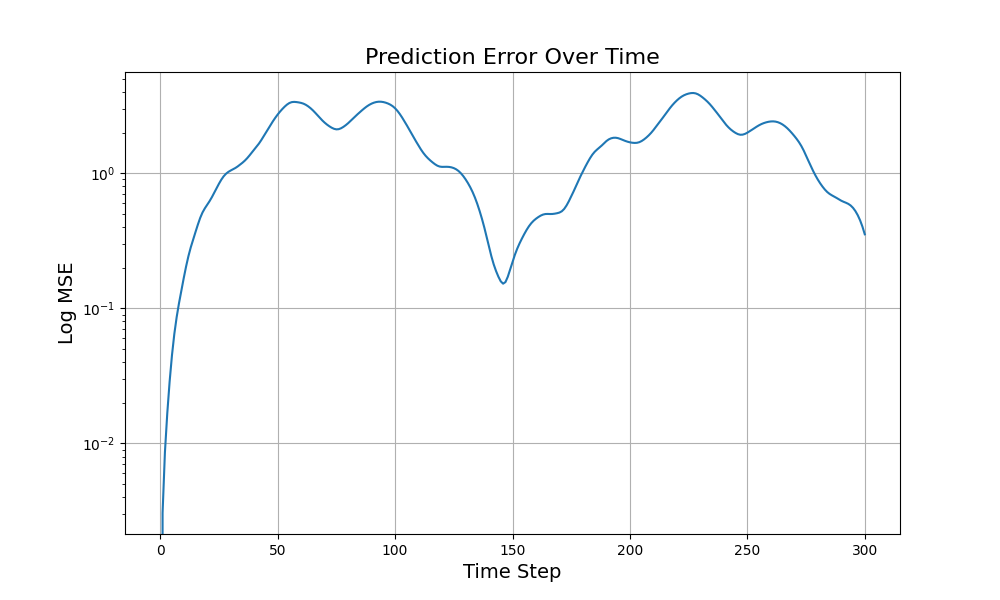
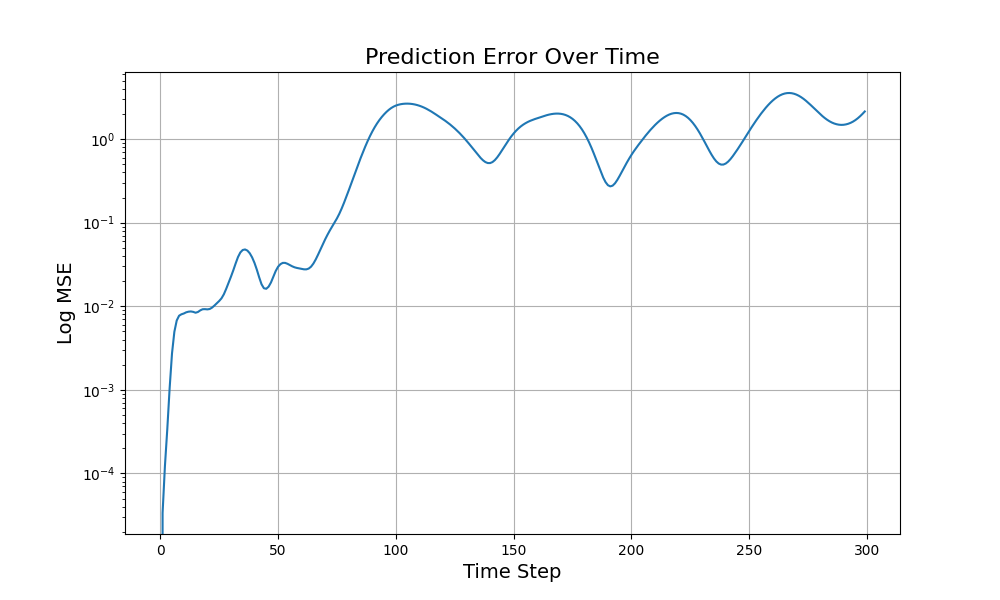
fixed

diff --git a/code/Q2.py b/code/Q2.py
@@ -30,13 +30,25 @@ class NICECouplingLayer(nn.Module):
         return torch.cat([x1, x2], dim=1)
 
 class ExtendedSympNet(nn.Module):
-    def __init__(self, latent_dim, active_dim=4, hidden_dim=256):
+    def __init__(self, latent_dim, active_dim=4, hidden_dim=64):
         super().__init__()
         self.active_dim = active_dim
         self.latent_dim = latent_dim
 
         self.H_net = nn.Sequential(
             nn.Linear(latent_dim, hidden_dim),
+            nn.Tanh(),
+            nn.Linear(hidden_dim, hidden_dim),
+            nn.Tanh(),
+            nn.Linear(hidden_dim, hidden_dim),
+            nn.Tanh(),
+            nn.Linear(hidden_dim, hidden_dim),
+            nn.Tanh(),
+            nn.Linear(hidden_dim, hidden_dim),
+            nn.Tanh(),
+            nn.Linear(hidden_dim, hidden_dim),
+            nn.Tanh(),
+            nn.Linear(hidden_dim, hidden_dim),
             nn.Tanh(),
             nn.Linear(hidden_dim, hidden_dim),
             nn.Tanh(),
@@ -114,16 +126,15 @@ class PNN(nn.Module):
         return torch.stack(trajectory).squeeze(1)
 
 
-def train_pnn(model, X_train, y_train, epochs=100, lr=0.001):
-    optimizer = torch.optim.Adam(model.parameters(), lr=lr)
-
+def train_pnn(model, X_train, y_train,test=None, epochs=100, lr=0.001):
+    optimizer = torch.optim.Adam(model.parameters(), lr=lr, weight_decay=1e-5)
     for epoch in range(epochs):
         optimizer.zero_grad()
-        perm = torch.randperm(X_train.size(0))
-        X_train = X_train[perm]
-        y_train = y_train[perm]
-        X_train = X_train[:64]
-        y_train = y_train[:64]
+        #perm = torch.randperm(X_train.size(0))
+        #X_train = X_train[perm]
+        #y_train = y_train[perm]
+        #X_train = X_train[:64]
+        #y_train = y_train[:64]
 
         pred_y = model.forward(X_train)
 
@@ -139,7 +150,6 @@ def train_pnn(model, X_train, y_train, epochs=100, lr=0.001):
         # Combine them
         mse_loss = loss_p + loss_q
 
-
         mse_loss.backward()
         torch.nn.utils.clip_grad_norm_(model.parameters(), 1.0)
 
@@ -150,6 +160,8 @@ def train_pnn(model, X_train, y_train, epochs=100, lr=0.001):
         # Optional symplecticity enforcement
         if epoch % 100 == 0:
             print(f"Epoch {epoch}, Loss: {mse_loss:.12f}")
+            if test != None:
+                evaluate_and_plot(model,test)
 
     return model
 
@@ -168,27 +180,27 @@ def evaluate_and_plot(model, X_test, steps=300):
     predicted_trajectory = model.predict(initial_state, steps)
     
     # Plot position components (assumed to be last two dimensions)
-    plt.figure(figsize=(12, 8))
+    #plt.figure(figsize=(12, 8))
     
     # Ground truth (blue)
-    plt.plot(ground_truth[:, 2].cpu().numpy(), ground_truth[:, 3].cpu().numpy(), 
-             'b-', label='Ground Truth', linewidth=2)
+    #plt.plot(ground_truth[:, 2].cpu().numpy(), ground_truth[:, 3].cpu().numpy(), 
+    #         'b-', label='Ground Truth', linewidth=2)
     
     # Prediction (red)
-    plt.plot(predicted_trajectory[:, 2].cpu().detach().numpy(), predicted_trajectory[:, 3].cpu().detach().numpy(), 
-             'r--', label='PNN Prediction', linewidth=2)
+    #plt.plot(predicted_trajectory[:, 2].cpu().detach().numpy(), predicted_trajectory[:, 3].cpu().detach().numpy(), 
+    #         'r--', label='PNN Prediction', linewidth=2)
     
     # Highlight start point
-    plt.scatter(ground_truth[0, 2].cpu().numpy(), ground_truth[0, 3].cpu().numpy(), 
-               c='green', s=100, label='Start Point')
+    #plt.scatter(ground_truth[0, 2].cpu().numpy(), ground_truth[0, 3].cpu().numpy(), 
+    #           c='green', s=100, label='Start Point')
     
-    plt.xlabel('Position x1', fontsize=14)
-    plt.ylabel('Position x2', fontsize=14)
-    plt.title('Charged Particle Trajectory Prediction', fontsize=16)
-    plt.legend(fontsize=12)
-    plt.grid(True)
-    plt.savefig('hello.png')
-    plt.show()
+    #plt.xlabel('Position x1', fontsize=14)
+    #plt.ylabel('Position x2', fontsize=14)
+    #plt.title('Charged Particle Trajectory Prediction', fontsize=16)
+    #plt.legend(fontsize=12)
+    #plt.grid(True)
+    #plt.savefig('hello.png')
+    #plt.show()
     
     # Calculate and plot MSE over time
     mse_over_time = []
@@ -196,17 +208,19 @@ def evaluate_and_plot(model, X_test, steps=300):
         mse = F.mse_loss(predicted_trajectory[t], ground_truth[t]).item()
         mse_over_time.append(mse)
     
-    plt.figure(figsize=(10, 6))
-    plt.semilogy(mse_over_time)
-    plt.xlabel('Time Step', fontsize=14)
-    plt.ylabel('Log MSE', fontsize=14)
-    plt.title('Prediction Error Over Time', fontsize=16)
-    plt.grid(True)
-    plt.savefig('prediction_error.png')
+    #plt.figure(figsize=(10, 6))
+    #plt.semilogy(mse_over_time)
+    #plt.xlabel('Time Step', fontsize=14)
+    #plt.ylabel('Log MSE', fontsize=14)
+    #plt.title('Prediction Error Over Time', fontsize=16)
+    #plt.grid(True)
+    #plt.savefig('prediction_error.png')
     
     # Calculate average MSE
     avg_mse = sum(mse_over_time) / len(mse_over_time)
     print(f"Average MSE over {len(mse_over_time)} time steps: {avg_mse:.6f}")
+
+    model.train()
     
     return avg_mse, predicted_trajectory
 
@@ -246,7 +260,7 @@ if __name__ == "__main__":
     
     # Train the model
     print("Starting training...")
-    pnn = train_pnn(pnn, X_train, y_train, epochs=100000, lr=0.0005)
+    pnn = train_pnn(pnn, X_train, y_train,test = X_test, epochs=100000, lr=0.000005)
     print("Training complete!")
     
     # Evaluate and visualize results

diff --git a/code/Q2T.py b/code/Q2T.py
@@ -125,10 +125,7 @@ def train_pnn(model, X_train, y_train, epochs=1000, lr=0.001):
                 pred = model(batch_X)
                 loss = F.mse_loss(pred, batch_y)
                 
-                # Physics regularization
-                S_norm = torch.norm(model.sympNet.S)
-                reg_loss = 1e-4 * S_norm
-                total_loss = loss + reg_loss
+                total_loss = loss
             
             total_loss.backward()
             torch.nn.utils.clip_grad_norm_(model.parameters(), 1.0)
@@ -179,7 +176,7 @@ def evaluate_and_plot(model, X_test, steps=300):
     
     # Energy conservation
     true_energy = (true_traj[:, :2].norm(dim=1) - 1/(true_traj[:, 2:].norm(dim=1)+1e-8)).cpu()
-    pred_energy = (pred_traj[:, 0, :2].norm(dim=1) - 1/(pred_traj[:, 0, 2:].norm(dim=1)+1e-8).cpu()
+    pred_energy = (pred_traj[:, 0, :2].norm(dim=1) - 1/(pred_traj[:, 0, 2:].norm(dim=1)+1e-8)).cpu()
     axs[1,0].plot(true_energy, 'b-', label='True')
     axs[1,0].plot(pred_energy, 'r--', label='Pred')
     axs[1,0].set_title('System Energy')
@@ -201,16 +198,11 @@ if __name__ == "__main__":
     X_train = torch.tensor(data[:-1], dtype=torch.float32)
     y_train = torch.tensor(data[1:], dtype=torch.float32)
     
-    # Normalize data
-    mean, std = X_train.mean(0), X_train.std(0)
-    X_train = (X_train - mean) / (std + 1e-8)
-    y_train = (y_train - mean) / (std + 1e-8)
-    
     model = EnhancedPNN(hidden_dim=256).to(device)
-    model = train_pnn(model, X_train.to(device), y_train.to(device), epochs=2000, lr=3e-4)
+    model = train_pnn(model, X_train.to(device), y_train.to(device), epochs=10000, lr=0.001)
     
     # Load and normalize test data
     test_data = np.loadtxt('../data/test.txt')
-    X_test = (torch.tensor(test_data, dtype=torch.float32) - mean) / (std + 1e-8)
+    X_test = torch.tensor(test_data, dtype=torch.float32)
     avg_error = evaluate_and_plot(model, X_test.to(device))
     print(f"Average prediction error: {avg_error:.4e}")
